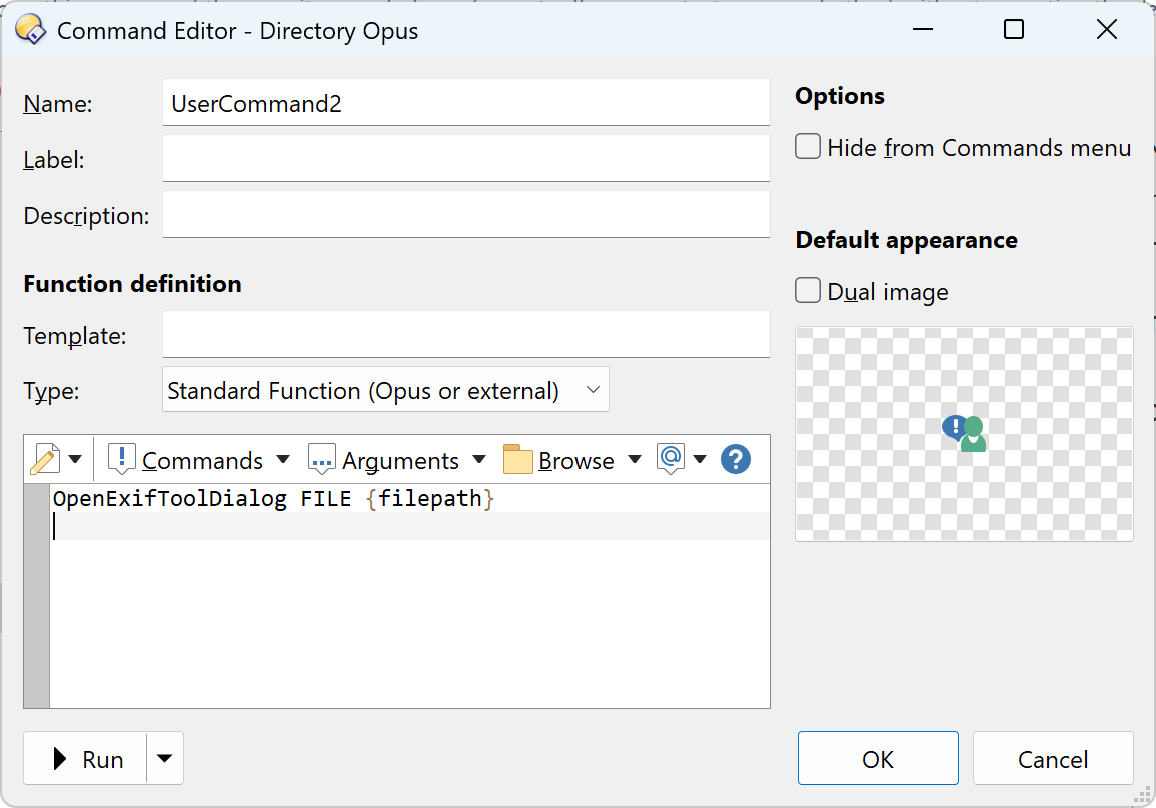
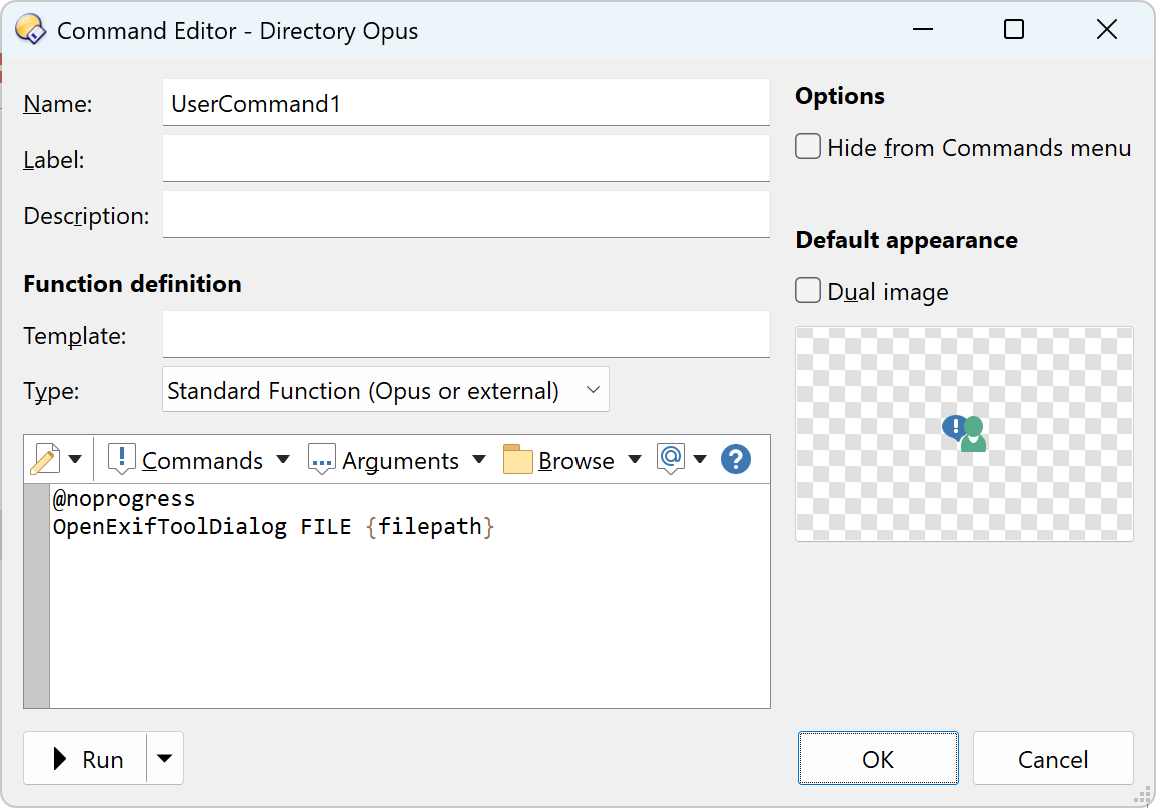
improve Readme

diff --git a/README.md b/README.md
@@ -15,5 +15,13 @@ ExifTool executable is started only once when Directory Opus is started. This ma
 * Download the `.js` file from [this project's releases page](https://github.com/PolarGoose/DirectoryOpus-ExifTool-Dialog/releases)
 * Copy the `.js` file to the `%AppData%\GPSoftware\Directory Opus\Script AddIns` folder
 * The command `OpenExifToolDialog` becomes available in Directory Opus `Command Editor`.<br>Using this command, you can create a custom button or a hotkey.<br>
-  The `FILE` parameter is a file's full name.
+  ```
+  @noprogress
+  OpenExifToolDialog FILE {filepath}
+  ```
+  The `FILE` parameter is a file's full name.<br>
+  The `@noprogress` attribute is needed to avoid the automatic progress bar dialog interfering with the ExifTool dialog.<br>
   <img src="doc/commandEditor.png" width="70%" />
+
+# References
+* Discussion of this project on DOpus forum: [ExifTool GUI dialog](https://resource.dopus.com/t/exiftool-gui-dialog/55540/1)
